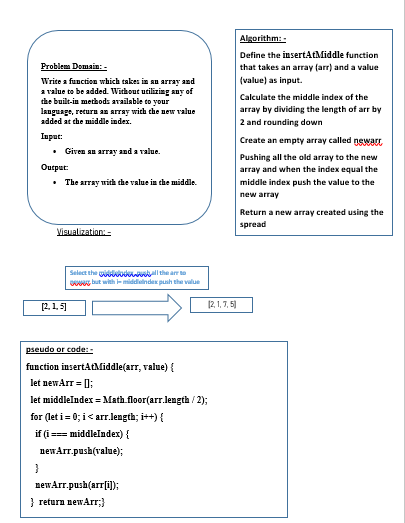
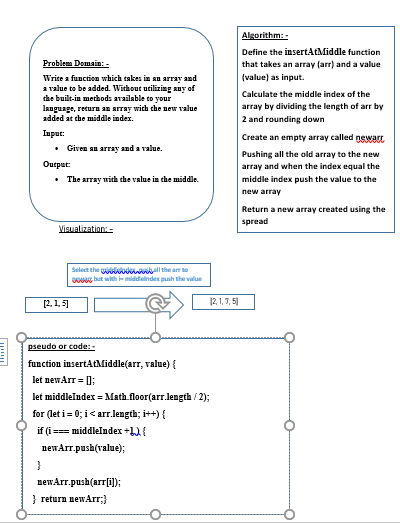
fixing the function for 1 and 2

diff --git a/javascript/code-challenges/array-reverse/array-reverse.md b/javascript/code-challenges/array-reverse/array-reverse.md
@@ -1,1 +1,1 @@
-![Javatpoint](./whitebord.png)  
+![Javatpoint](./1.png)  
